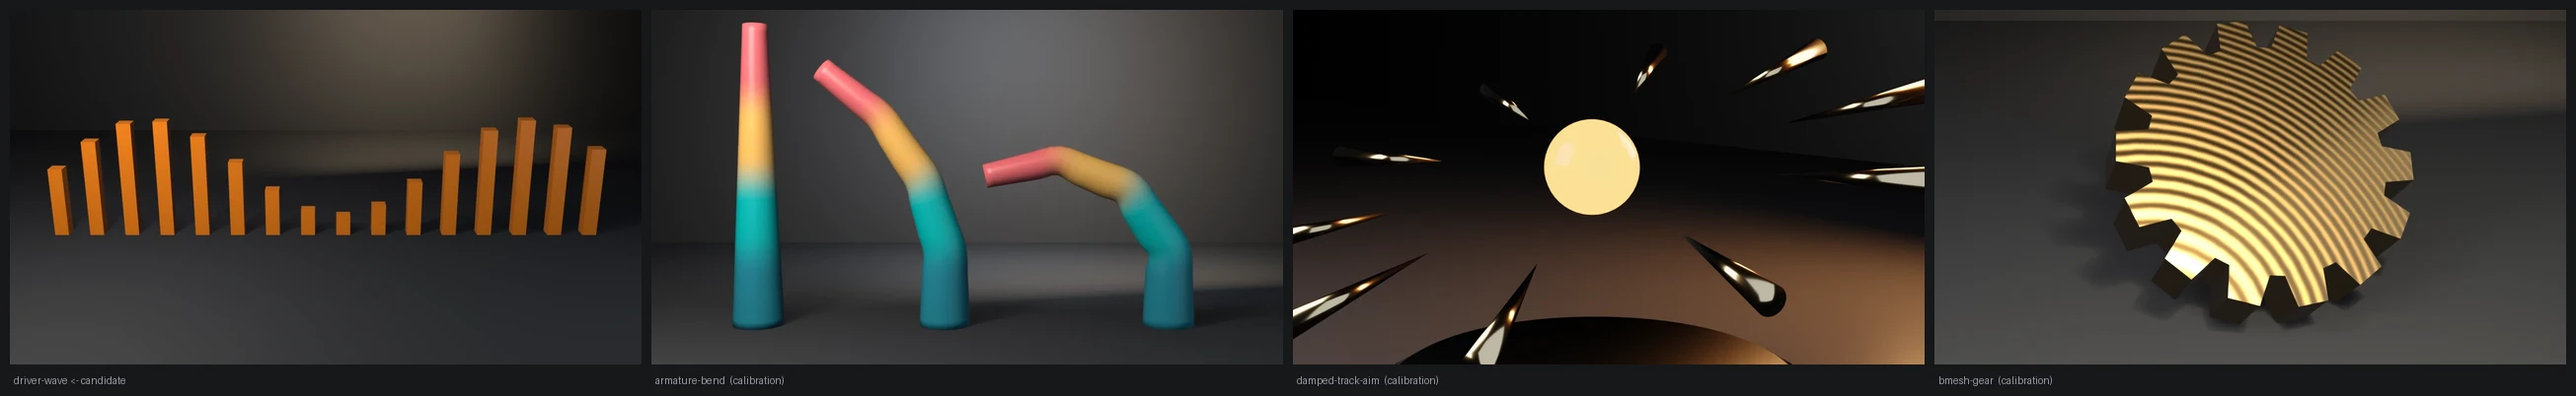
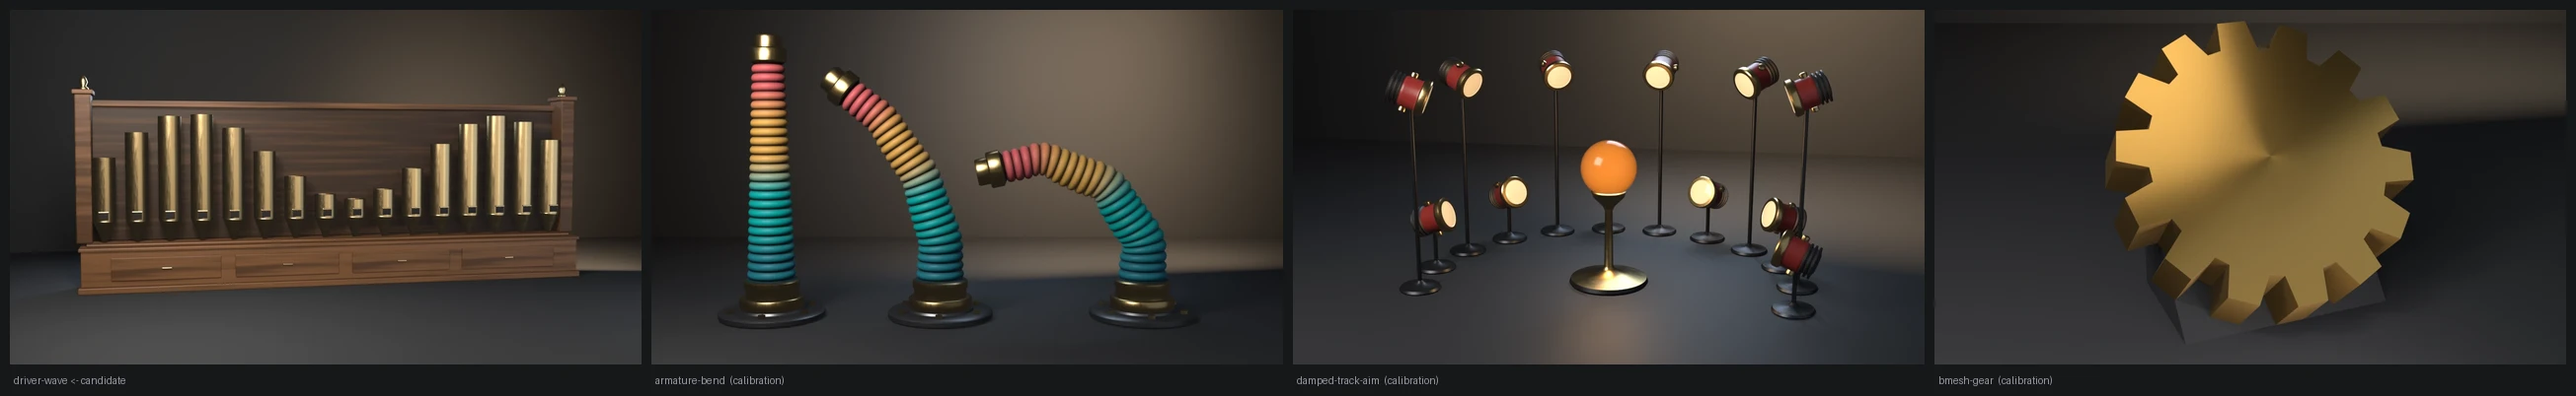
fix(examples): redesign driver-wave as a brass pipe-organ facade
The sixteen driven objects are now organ pipes. They share one open-tube
body mesh of unit height (z 0..1), so the driven Z scale is each pipe's
speaking length and the pipe tops trace wave_scale directly. The SCRIPTED
drivers, driver_namespace registration and both checks (evaluated copy and
flushed original) are unchanged. Render-only staging surrounds them: a
walnut windchest with panelled front and brass pulls, a dark walnut case
back and side towers with brass finials, and a brass foot cone and mouth
under each pipe. Lighting adds a broad soft card for the brass to mirror,
and the camera is a TRACK_TO three-quarter front view.

Evidence (live runs, local):
- .scratch/blender-5.2.1-windows-x64/blender.exe (Blender 5.2.1 LTS):
  check-only exit 0, columns=16 driven_range=0.404..2.399
  flushed_to_original=True. --flat-expr exits 3 ("col 0 evaluated scale
  1.0000 != wave_scale 1.4000").
- .scratch/blender-4.5.11-windows-x64/blender.exe (Blender 4.5.11 LTS):
  check exit 0 with the same numbers; --output render exit 0, framing ok.
- Framing: fill x=0.806 y=0.622, margins l=0.097 r=0.097 b=0.194 t=0.183.
- Contact sheet (docs/gallery/contact-sheets/driver-wave-contact-sheet.webp):
  candidate luma 0.240 / stage 0.199 / warmth +0.235 / sat 0.225, against
  armature-bend 0.243/0.192/-0.144/0.237, damped-track-aim
  0.237/0.218/+0.105/0.178, and bmesh-gear 0.236/0.177/+0.303/0.250.
  Every criterion is inside the calibration band.

diff --git a/examples/driver-wave/driver_wave.py b/examples/driver-wave/driver_wave.py
@@ -19,6 +19,7 @@ check. Pass --output to also render a still:
     blender --background --python driver_wave.py -- --output d.png  # + render
 """
 import bpy, bmesh, sys, os, math, argparse
+from mathutils import Vector
 
 # Shared Layer 1 framing measurement (render path only) — see gallery_framing.py
 sys.path.insert(0, os.path.join(os.path.dirname(os.path.abspath(__file__)), os.pardir))
@@ -35,6 +36,35 @@ def wave_scale(i):
     return 1.4 + math.sin(i * 0.6)
 
 
+# Organ-pipe body profile (r, z) in mesh units; BASE x/y scale makes the
+# outer radius ~0.26. Bottom closed, open mouth at the top with a wall.
+PIPE_PROFILE = [(0.0, 0.0), (0.92, 0.0), (0.92, 1.0), (0.80, 1.0), (0.80, 0.94), (0.0, 0.94)]
+
+
+def lathe(bm, profile, segs=32):
+    """Revolve an (r, z) profile about Z; r == 0 points become poles."""
+    rings = []
+    for r, z in profile:
+        if r < 1e-9:
+            rings.append([bm.verts.new((0.0, 0.0, z))])
+        else:
+            rings.append([bm.verts.new((r * math.cos(2 * math.pi * s / segs),
+                                        r * math.sin(2 * math.pi * s / segs), z))
+                          for s in range(segs)])
+    for a, b in zip(rings, rings[1:]):
+        for s in range(segs):
+            t = (s + 1) % segs
+            if len(a) == 1 and len(b) == 1:
+                continue
+            if len(a) == 1:
+                bm.faces.new((a[0], b[t], b[s]))
+            elif len(b) == 1:
+                bm.faces.new((a[s], a[t], b[0]))
+            else:
+                bm.faces.new((a[s], a[t], b[t], b[s]))
+    return rings
+
+
 def build_columns(flat_expr=False):
     bpy.ops.wm.read_factory_settings(use_empty=True)
     # driver_namespace entries do not persist in .blend files; real add-ons
@@ -42,13 +72,20 @@ def build_columns(flat_expr=False):
     # driver creation is enough.
     bpy.app.driver_namespace["wave_scale"] = wave_scale
 
+    # one shared organ-pipe body: an open tube of unit height (z 0..1), so the
+    # driven Z scale IS the speaking length; the rim annulus is horizontal and
+    # stays crisp under any Z scale
     me = bpy.data.meshes.new("Column")
     bm = bmesh.new()
     try:
-        bmesh.ops.create_cube(bm, size=1.0)
+        lathe(bm, PIPE_PROFILE, segs=32)
+        bmesh.ops.recalc_face_normals(bm, faces=bm.faces)
         bm.to_mesh(me)
     finally:
         bm.free()
+    for poly in me.polygons:
+        poly.use_smooth = True
+    me.set_sharp_from_angle(angle=math.radians(50.0))
 
     objs = []
     x0 = -(COUNT - 1) * SPACING / 2
@@ -90,18 +127,155 @@ def eevee_engine_id():
 
 
 def render_still(objs, path, engine):
-    scene = bpy.context.scene
-    mat = bpy.data.materials.new("ColMat")
-    mat.use_nodes = True
-    bsdf = mat.node_tree.nodes["Principled BSDF"]
-    bsdf.inputs["Base Color"].default_value = (1.0, 0.26, 0.012, 1.0)  # selection orange
-    bsdf.inputs["Roughness"].default_value = 0.32
-    objs[0].data.materials.append(mat)  # shared mesh -> all columns
+    """A pipe-organ facade: the sixteen driven bodies are the speaking pipes.
 
-    # columns stand on the floor: lift each by its DRIVEN half-height
+    Everything added here is render-only staging around the driven objects:
+    a walnut windchest, a brass foot cone and a mouth under each pipe. The
+    pipe bodies keep their SCRIPTED drivers; their tops trace wave_scale.
+    """
+    scene = bpy.context.scene
+
+    def principled(name, base, rough, metal=0.0, grain=None, noise=None):
+        m = bpy.data.materials.new(name)
+        m.use_nodes = True
+        nt = m.node_tree
+        b = nt.nodes["Principled BSDF"]
+        b.inputs["Base Color"].default_value = (*base, 1.0)
+        b.inputs["Roughness"].default_value = rough
+        b.inputs["Metallic"].default_value = metal
+        coord = nt.nodes.new("ShaderNodeTexCoord").outputs["Object"]
+        if grain:
+            # walnut: stretched noise bands along X, dark/light figure
+            mapping = nt.nodes.new("ShaderNodeMapping")
+            mapping.inputs["Scale"].default_value = (0.6, 14.0, 14.0)
+            nt.links.new(coord, mapping.inputs["Vector"])
+            tex = nt.nodes.new("ShaderNodeTexWave")
+            tex.wave_type = "BANDS"
+            tex.bands_direction = "Y"
+            tex.inputs["Scale"].default_value = 0.35
+            tex.inputs["Distortion"].default_value = 6.0
+            tex.inputs["Detail"].default_value = 4.0
+            nt.links.new(mapping.outputs["Vector"], tex.inputs["Vector"])
+            ramp = nt.nodes.new("ShaderNodeValToRGB")
+            ramp.color_ramp.elements[0].color = (*(c * 0.55 for c in base), 1.0)
+            ramp.color_ramp.elements[1].color = (*(min(1.0, c * 1.45) for c in base), 1.0)
+            nt.links.new(tex.outputs["Fac"], ramp.inputs["Fac"])
+            nt.links.new(ramp.outputs["Color"], b.inputs["Base Color"])
+        if noise:
+            # handling wear on the brass: mottled roughness, never a flat slot
+            tex = nt.nodes.new("ShaderNodeTexNoise")
+            tex.inputs["Scale"].default_value = noise
+            tex.inputs["Detail"].default_value = 6.0
+            nt.links.new(coord, tex.inputs["Vector"])
+            mr = nt.nodes.new("ShaderNodeMapRange")
+            mr.inputs["To Min"].default_value = rough - 0.08
+            mr.inputs["To Max"].default_value = rough + 0.16
+            nt.links.new(tex.outputs["Fac"], mr.inputs["Value"])
+            nt.links.new(mr.outputs["Result"], b.inputs["Roughness"])
+        return m
+
+    brass = principled("Brass", (0.86, 0.62, 0.30), 0.24, metal=1.0, noise=9.0)
+    walnut = principled("Walnut", (0.17, 0.075, 0.03), 0.48, grain=True)
+    mouth_mat = principled("PipeMouth", (0.012, 0.010, 0.009), 0.7)
+    objs[0].data.materials.append(brass)  # shared mesh -> all sixteen pipes
+
+    def box(name, dims, loc, mat, bevel=0.02):
+        me = bpy.data.meshes.new(name)
+        bm = bmesh.new()
+        try:
+            bmesh.ops.create_cube(bm, size=1.0)
+            for v in bm.verts:
+                v.co.x *= dims[0]; v.co.y *= dims[1]; v.co.z *= dims[2]
+            if bevel:
+                bmesh.ops.bevel(bm, geom=list(bm.edges), offset=bevel, segments=2,
+                                profile=0.5, affect="EDGES", clamp_overlap=True)
+            bm.to_mesh(me)
+        finally:
+            bm.free()
+        me.materials.append(mat)
+        ob = bpy.data.objects.new(name, me)
+        ob.location = loc
+        scene.collection.objects.link(ob)
+        return ob
+
+    # the windchest: a walnut cabinet the pipe feet stand in
+    span = (COUNT - 1) * SPACING
+    chest_w, chest_d = span + 0.95, 1.1
+    parts = [
+        box("Chest.Plinth", (chest_w + 0.12, chest_d + 0.12, 0.14), (0, 0, 0.07), walnut),
+        box("Chest.Body", (chest_w, chest_d, 0.78), (0, 0, 0.53), walnut, bevel=0.015),
+        box("Chest.Rail", (chest_w + 0.10, chest_d + 0.10, 0.08), (0, 0, 0.96), walnut),
+        box("Chest.Toe", (chest_w - 0.2, chest_d - 0.4, 0.06), (0, 0, 1.03), walnut),
+    ]
+    # raised front panels with brass pulls, one per four pipes
+    for k in range(4):
+        px = -span / 2 + span * (k + 0.5) / 4
+        parts.append(box(f"Chest.Panel.{k}", (span / 4 - 0.32, 0.04, 0.5),
+                         (px, -chest_d / 2 - 0.015, 0.53), walnut, bevel=0.012))
+        parts.append(box(f"Chest.Pull.{k}", (0.22, 0.04, 0.04),
+                         (px, -chest_d / 2 - 0.05, 0.53), brass, bevel=0.01))
+
+    # the case back: a dark walnut screen behind the pipes, so the driven
+    # tops trace their wave against wood rather than fading into the stage;
+    # two side towers with brass finials close the facade
+    dark_walnut = principled("WalnutDark", (0.07, 0.032, 0.014), 0.55, grain=True)
+    parts.append(box("Case.Back", (chest_w - 0.2, 0.12, 3.05),
+                     (0, 0.42, 1.06 + 1.525), dark_walnut, bevel=0.02))
+    parts.append(box("Case.Cornice", (chest_w + 0.1, 0.36, 0.14),
+                     (0, 0.40, 1.06 + 3.12), walnut, bevel=0.02))
+    for sx in (-1.0, 1.0):
+        tx = sx * (chest_w / 2 - 0.05)
+        parts.append(box(f"Case.Tower.{'LR'[sx > 0]}", (0.34, 0.62, 3.3),
+                         (tx, 0.18, 1.06 + 1.65), walnut, bevel=0.025))
+        parts.append(box(f"Case.Cap.{'LR'[sx > 0]}", (0.44, 0.72, 0.1),
+                         (tx, 0.18, 1.06 + 3.35), walnut, bevel=0.02))
+        fin_me = bpy.data.meshes.new(f"Finial.{'LR'[sx > 0]}")
+        bm = bmesh.new()
+        try:
+            lathe(bm, [(0.0, 0.0), (0.12, 0.0), (0.12, 0.05), (0.06, 0.09),
+                       (0.10, 0.18), (0.07, 0.27), (0.02, 0.33), (0.0, 0.36)], segs=24)
+            bmesh.ops.recalc_face_normals(bm, faces=bm.faces)
+            bm.to_mesh(fin_me)
+        finally:
+            bm.free()
+        for poly in fin_me.polygons:
+            poly.use_smooth = True
+        fin_me.materials.append(brass)
+        fin = bpy.data.objects.new(fin_me.name, fin_me)
+        fin.location = (tx, 0.18, 1.06 + 3.40)
+        scene.collection.objects.link(fin)
+        parts.append(fin)
+
+    # brass foot cone + mouth per pipe; the driven body starts above the foot
+    foot_h = 0.50
+    chest_top = 1.06
+    foot_me = bpy.data.meshes.new("PipeFoot")
+    bm = bmesh.new()
+    try:
+        lathe(bm, [(0.0, 0.0), (0.05, 0.0), (0.06, 0.03), (0.24, foot_h - 0.04), (0.258, foot_h),
+                   (0.0, foot_h)], segs=32)
+        bmesh.ops.recalc_face_normals(bm, faces=bm.faces)
+        bm.to_mesh(foot_me)
+    finally:
+        bm.free()
+    for poly in foot_me.polygons:
+        poly.use_smooth = True
+    foot_me.materials.append(brass)
     dg = bpy.context.evaluated_depsgraph_get()
     for obj in objs:
-        obj.location.z = obj.evaluated_get(dg).scale[2] / 2
+        x = obj.location.x
+        foot = bpy.data.objects.new(f"Foot.{obj.name[-2:]}", foot_me)
+        foot.location = (x, 0.0, chest_top)
+        scene.collection.objects.link(foot)
+        parts.append(foot)
+        # body stands on its foot; its height is the DRIVEN Z scale
+        obj.location.z = chest_top + foot_h
+        z0 = chest_top + foot_h
+        parts.append(box(f"Mouth.{obj.name[-2:]}", (0.20, 0.04, 0.15),
+                         (x, -0.238, z0 + 0.10), mouth_mat, bevel=0.008))
+        parts.append(box(f"Lip.{obj.name[-2:]}", (0.23, 0.05, 0.035),
+                         (x, -0.245, z0 + 0.19), brass, bevel=0.01))
+    heights = [obj.evaluated_get(dg).scale[2] for obj in objs]
 
     floor_me = bpy.data.meshes.new("Floor")
     bm = bmesh.new()
@@ -119,7 +293,7 @@ def render_still(objs, path, engine):
     floor_me.materials.append(fmat)
     scene.collection.objects.link(floor)
     wall = bpy.data.objects.new("Wall", floor_me.copy())
-    wall.location = (0.0, 9.0, 0.0)
+    wall.location = (0.0, 7.0, 0.0)
     wall.rotation_euler = (math.radians(90), 0.0, 0.0)
     scene.collection.objects.link(wall)
 
@@ -128,41 +302,38 @@ def render_still(objs, path, engine):
     world.node_tree.nodes["Background"].inputs["Color"].default_value = (0.02, 0.021, 0.025, 1.0)
     scene.world = world
 
-    # warm shaped key, faint cool fill, warm wedge pooling on the back wall
-    # (docs/VISUAL-STYLE.md)
-    key = bpy.data.lights.new("Key", 'AREA'); key.energy = 650.0; key.size = 4.5
-    key.color = (1.0, 0.96, 0.9)
-    key_ob = bpy.data.objects.new("Key", key)
-    key_ob.location = (-4.5, -5.5, 6.5)
-    key_ob.rotation_euler = (math.radians(46), 0.0, math.radians(-33))
-    scene.collection.objects.link(key_ob)
-    fill = bpy.data.lights.new("Fill", 'AREA'); fill.energy = 110.0; fill.size = 8.0
-    fill.color = (0.75, 0.85, 1.0)
-    fill_ob = bpy.data.objects.new("Fill", fill)
-    fill_ob.location = (5.5, -4.0, 3.5)
-    fill_ob.rotation_euler = (math.radians(62), 0.0, math.radians(48))
-    scene.collection.objects.link(fill_ob)
-    wedge = bpy.data.lights.new("Wedge", 'AREA'); wedge.energy = 380.0; wedge.size = 6.0
-    wedge.color = (1.0, 0.76, 0.5)
-    wedge_ob = bpy.data.objects.new("Wedge", wedge)
-    wedge_ob.location = (2.5, 6.0, 4.0)
-    wedge_ob.rotation_euler = (math.radians(-68), 0.0, math.radians(190))
-    scene.collection.objects.link(wedge_ob)
+    def light(name, loc, energy, size, col, at):
+        ld = bpy.data.lights.new(name, 'AREA')
+        ld.energy = energy; ld.size = size; ld.color = col
+        ob = bpy.data.objects.new(name, ld)
+        ob.location = loc
+        ob.rotation_euler = (Vector(at) - Vector(loc)).to_track_quat('-Z', 'Y').to_euler()
+        scene.collection.objects.link(ob)
 
-    # lens/distance chosen so all sixteen columns (span 11.1 units) sit inside
-    # the frame with a small margin -- the skyline must not clip
-    cam_data = bpy.data.cameras.new("Cam"); cam_data.lens = 42.0
+    # warm shaped key, faint cool fill, a broad soft card the brass can
+    # mirror (bare metal in a dark studio otherwise reads black), a cool rim
+    # on the pipe edges and a warm wedge pooling on the back wall
+    light("Key", (-5.0, -6.5, 7.0), 900.0, 4.0, (1.0, 0.94, 0.86), (-0.5, 0.0, 2.0))
+    light("Fill", (6.5, -5.0, 3.0), 160.0, 8.0, (0.75, 0.85, 1.0), (0.0, 0.0, 2.0))
+    light("Card", (1.5, -9.0, 4.5), 260.0, 10.0, (1.0, 0.92, 0.80), (0.0, 0.0, 2.2))
+    light("Rim", (-2.0, 4.5, 5.5), 420.0, 4.0, (0.62, 0.78, 1.0), (0.0, 0.0, 2.2))
+    light("Wedge", (5.5, 1.5, 3.2), 650.0, 6.0, (1.0, 0.70, 0.42), (7.0, 7.0, 1.4))
+
+    cam_data = bpy.data.cameras.new("Cam")
+    cam_data.lens = 45.0
     cam = bpy.data.objects.new("Cam", cam_data)
-    # raised so the column tops and their shadows read as a wave; from
-    # nearly level (86 deg) it flattened into a bar chart
-    cam.location = (0.0, -14.2, 5.6)
-    cam.rotation_euler = (math.radians(72), 0.0, 0.0)
+    cam.location = (-4.3, -18.2, 3.2)
     scene.collection.objects.link(cam)
+    aim = bpy.data.objects.new("Aim", None)
+    aim.location = (-0.35, 0.0, 2.25)
+    scene.collection.objects.link(aim)
+    con = cam.constraints.new('TRACK_TO')
+    con.target = aim
     scene.camera = cam
 
     scene.render.engine = 'CYCLES' if engine == 'cycles' else eevee_engine_id()
     if engine == 'cycles':
-        scene.cycles.samples = 32
+        scene.cycles.samples = 48
     else:
         try:
             scene.eevee.taa_render_samples = 64
@@ -172,14 +343,16 @@ def render_still(objs, path, engine):
     scene.render.resolution_y = 720
     scene.render.image_settings.file_format = 'PNG'
     scene.render.filepath = path
-    # AgX would wash the orange columns toward tan (docs/VISUAL-STYLE.md)
+    # AgX would wash the brass toward tan (docs/VISUAL-STYLE.md)
     scene.view_settings.view_transform = 'Standard'
+    bpy.context.view_layer.update()
+    print(f"pipe speaking lengths (driven) {min(heights):.3f}..{max(heights):.3f}")
     # Layer 1 framing gate (silhouette matte) — exit 10 on violation, before
     # the beauty render so a defective composition ships no artifact.
     fcode = gallery_framing.check_framing(
         scene, cam,
-        hero=list(objs),
-        elements=list(objs),
+        hero=list(objs) + parts,
+        elements=list(objs) + parts,
         stage=[floor, wall],
     )
     if fcode:

diff --git a/examples/driver-wave/README.md b/examples/driver-wave/README.md
@@ -1,6 +1,6 @@
 # Driver Wave
 
-A runnable example that drives sixteen column heights from a custom function registered in
+A runnable example that drives sixteen organ-pipe heights from a custom function registered in
 `bpy.app.driver_namespace` — the pattern from
 [`drivers-and-app-handlers`](../../skills/drivers-and-app-handlers/SKILL.md). Each column
 gets a SCRIPTED driver on Z scale whose expression calls `wave_scale(i)`, producing a sine
@@ -17,9 +17,14 @@ open. Headless, registering before driver creation (as here) is enough.
 
 ## Staging
 
-The camera is raised to look down about 18 degrees, so the column tops
-and their shadows read as a wave. From nearly level (86 degrees) the
-skyline flattened into a bar chart. Render path only.
+The sixteen driven objects are the speaking pipes of a small organ facade. They share one
+open-tube body mesh of unit height (`z` 0..1), so the driven Z scale **is** each pipe's
+speaking length and the pipe tops trace `wave_scale` directly; the rim annulus is horizontal
+and stays crisp under any Z scale. Everything else — the walnut windchest and case back, the
+side towers with brass finials, a brass foot cone and a mouth under each pipe — is render-only
+staging built around the driven bodies. The case back sits behind the pipes so their tops read
+as a wave against wood rather than fading into the stage. The render path gates framing through
+`examples/gallery_framing.py` (exit 10) before writing the still.
 
 ## Run
 

diff --git a/README.md b/README.md
@@ -691,7 +691,7 @@ A slotted-actions Z-rotation turntable keyed through the cross-version channelba
 </tr>
 <tr>
 <td width="46%" valign="middle">
-<a href="examples/driver-wave/"><img src="examples/driver-wave/preview.webp" alt="Driver wave: sixteen orange columns seen from above whose heights form a sine wave on a dark studio floor, each driven by a driver_namespace function" /></a>
+<a href="examples/driver-wave/"><img src="examples/driver-wave/preview.webp" alt="Driver wave: a pipe-organ facade of sixteen brass pipes on a walnut windchest whose heights form a sine wave, each driven by a driver_namespace function" /></a>
 </td>
 <td valign="middle">
 
